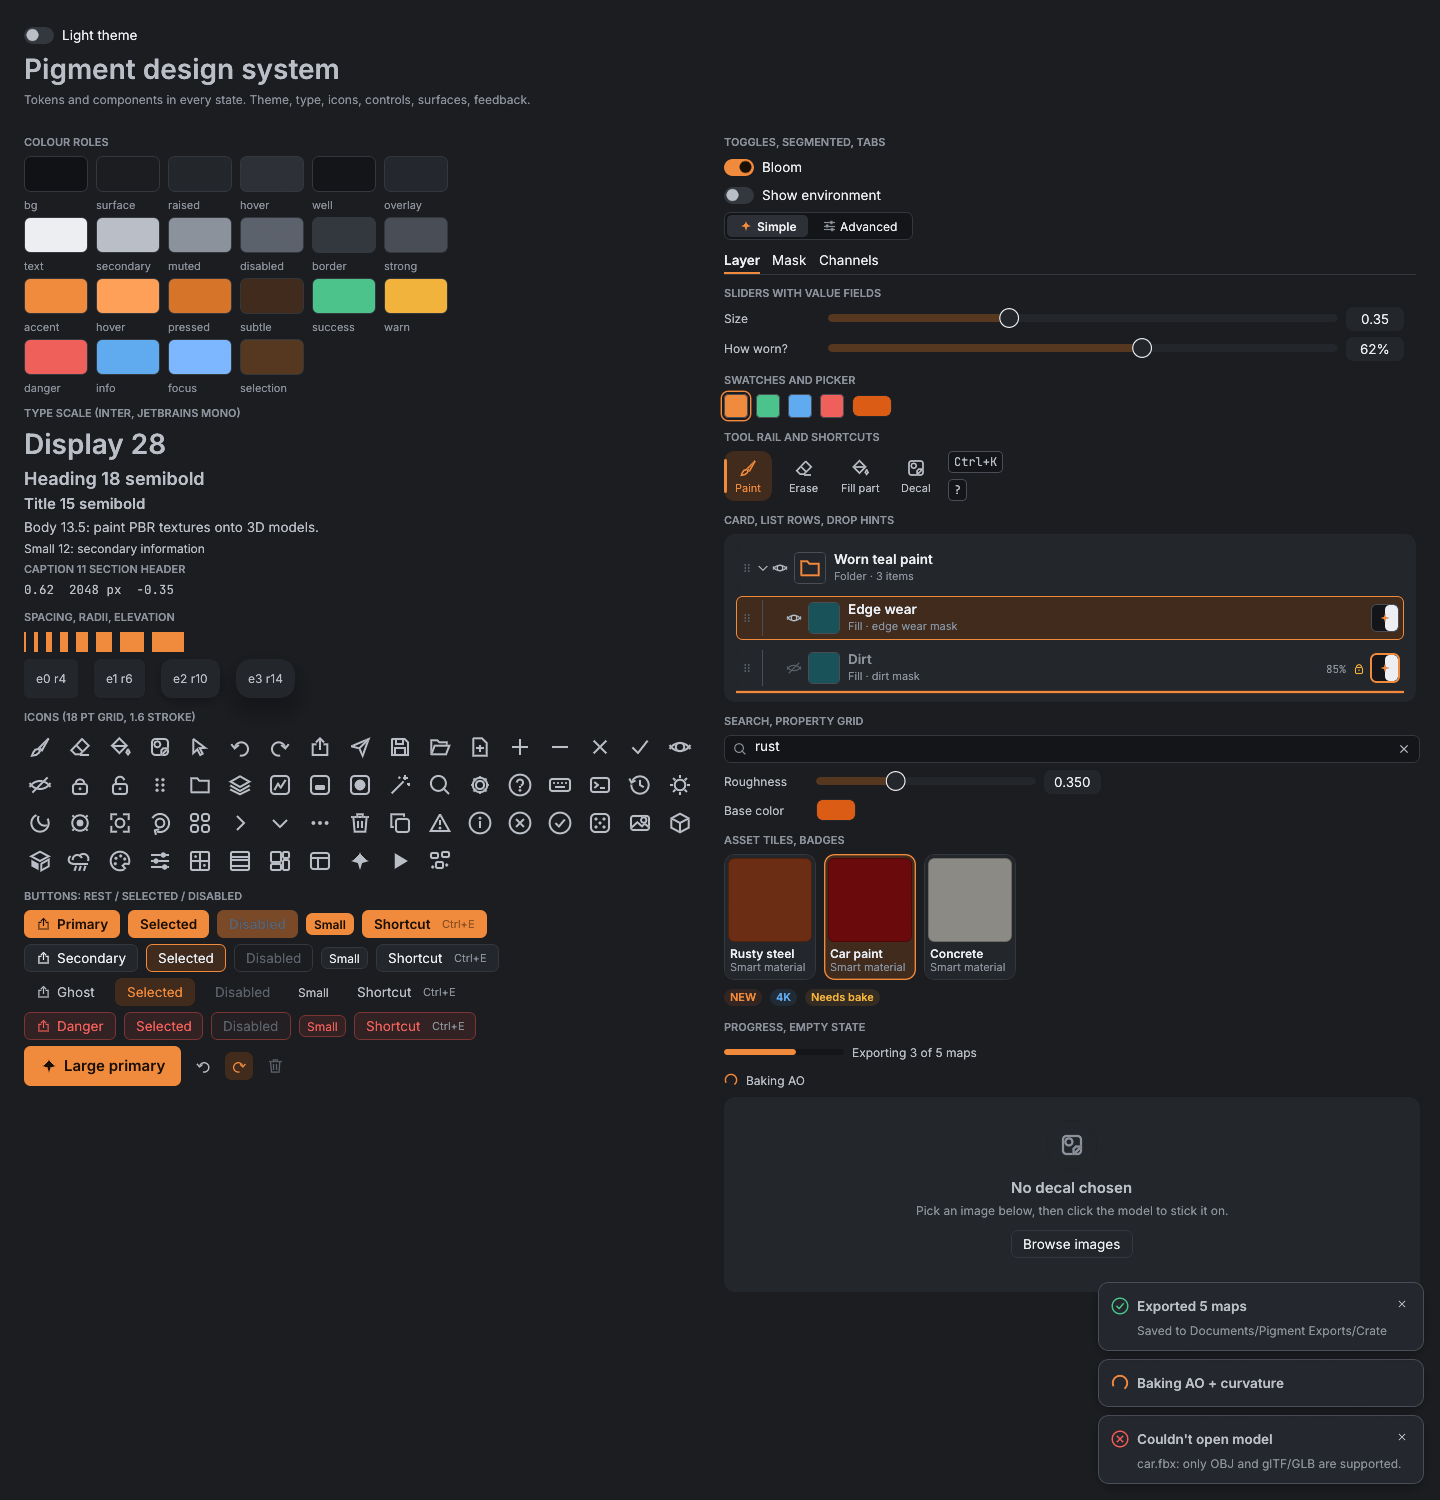
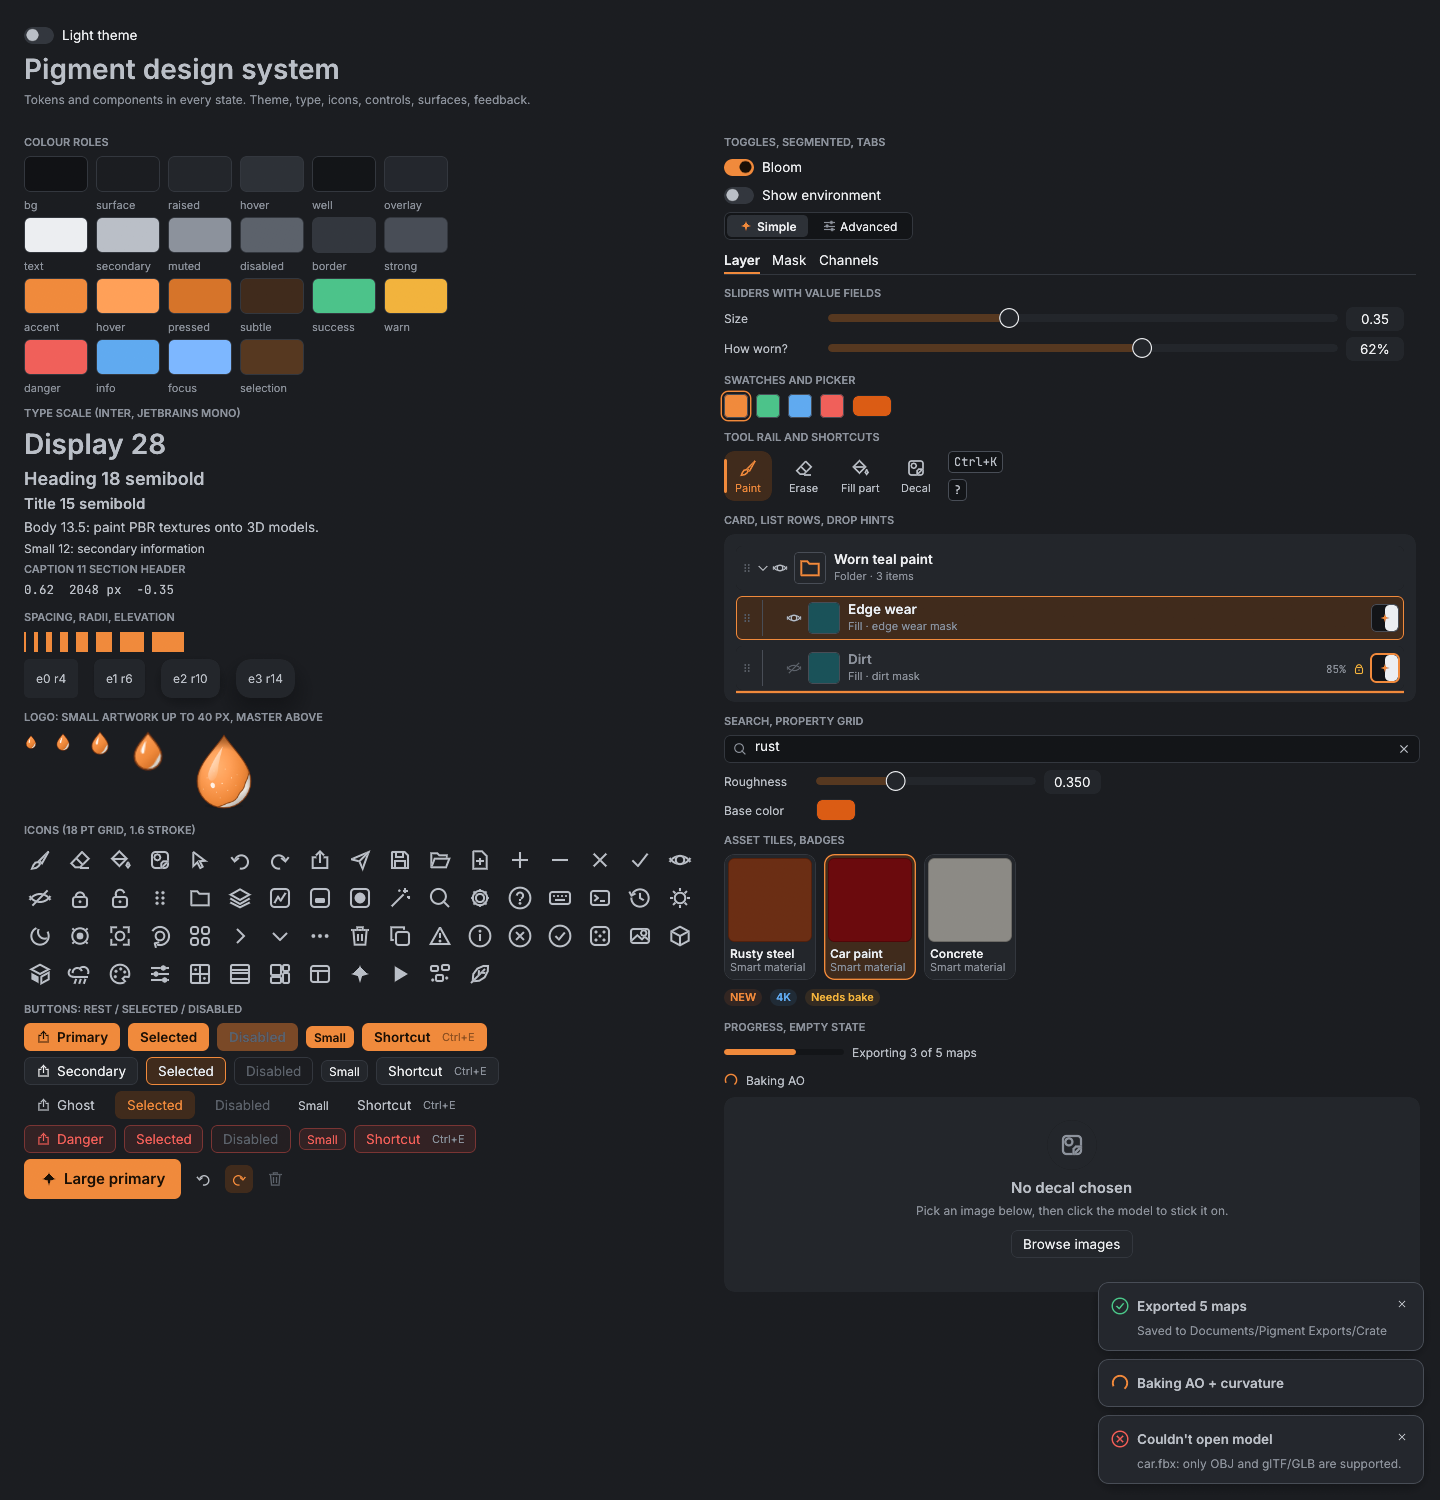
docs(branding): top bar and welcome screenshots in both themes, refreshed gallery (krnblds/pigment#1)
branding_screenshots (ignored, like the gallery one) renders them through
the UI harness into docs/branding.

Refs: krnblds/pigment#1

Changed region(s): [[0.0, 0.46, 0.4688, 0.7973], [0.4375, 0.5827, 0.4688, 0.644]]

diff --git a/crates/app/src/app/ui_tests.rs b/crates/app/src/app/ui_tests.rs
@@ -398,6 +398,25 @@ fn design_gallery_screenshots() {
     h.save_png(&docs().join("design/gallery_light.png"));
 }
 
+/// The app icon in the top bar and on the welcome screen, dark and light
+/// (docs/branding/*). `cargo test -p pigment branding_screenshots -- --ignored`
+#[test]
+#[ignore]
+fn branding_screenshots() {
+    let Some(mut h) = Harness::new([1280.0, 640.0], 2.0) else { return };
+    let out = docs().join("branding");
+    std::fs::create_dir_all(&out).unwrap();
+    for (theme, name) in [(super::design::ThemeKind::Dark, "dark"), (super::design::ThemeKind::Light, "light")] {
+        super::design::apply(&h.ctx, theme);
+        h.app.ui.welcome = true;
+        h.run(40);
+        let img = h.save_png(&out.join(format!("welcome_{name}.png")));
+        // the left of the top bar: logo, name and the first menus
+        let bar = image::imageops::crop_imm(&img, 0, 0, 900, 80).to_image();
+        bar.save(out.join(format!("top_bar_{name}.png"))).unwrap();
+    }
+}
+
 /// Preview images for the welcome screen's samples (assets/samples/*.png).
 #[test]
 #[ignore]
